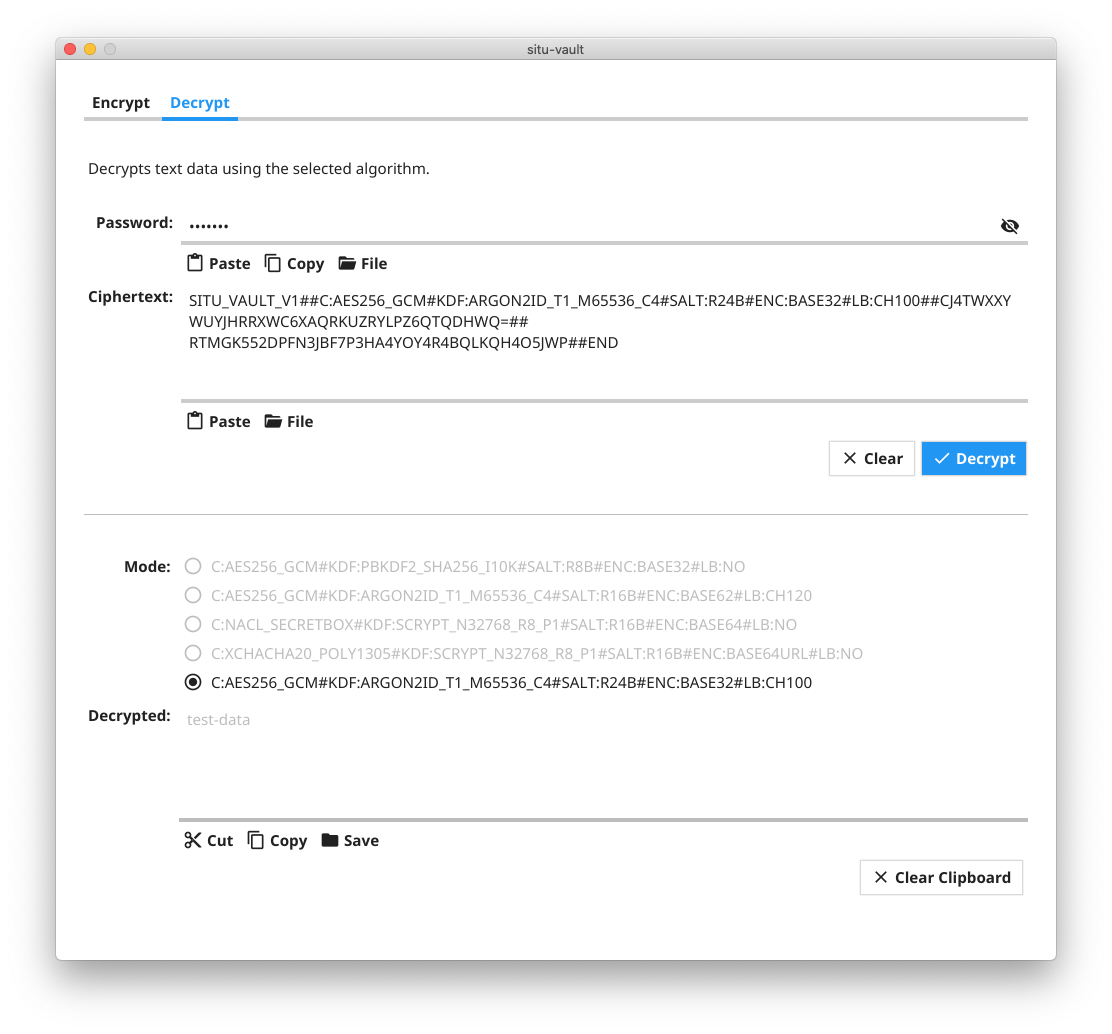
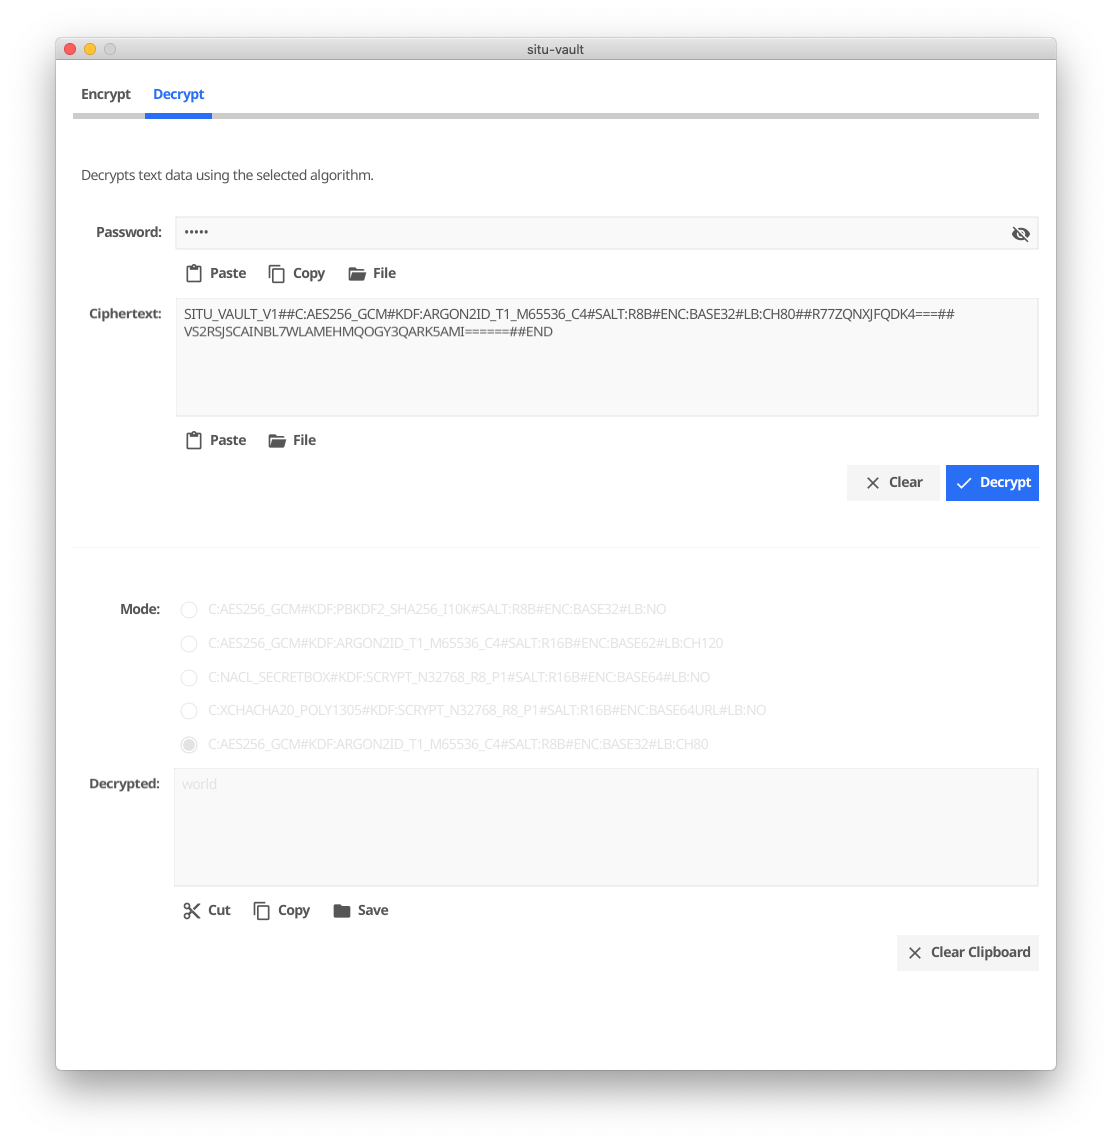
Update screenshots to show new fyne design

diff --git a/gui/situ-vault/gui.go b/gui/situ-vault/gui.go
@@ -298,7 +298,7 @@ func (exp *experience) loadUi(application fyne.App) {
 
 	// workaround to give it a bit more space to breathe
 	space := canvas.NewRectangle(color.White)
-	space.SetMinSize(fyne.NewSize(20, 20))
+	space.SetMinSize(fyne.NewSize(5, 5))
 	content := container.New(
 		layout.NewBorderLayout(space, space, space, space),
 		appTabs,
